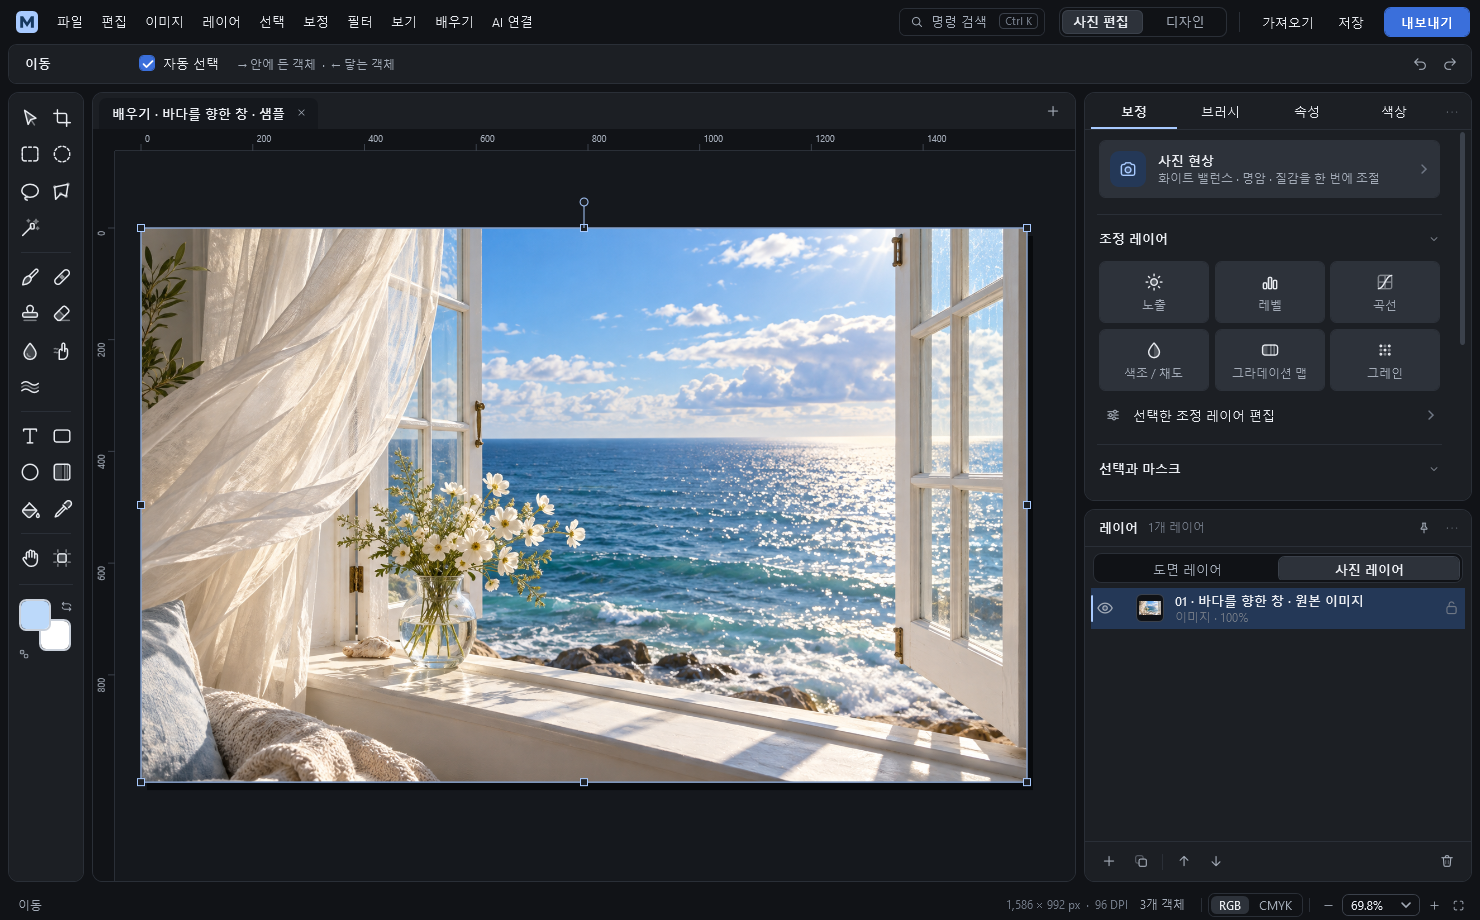
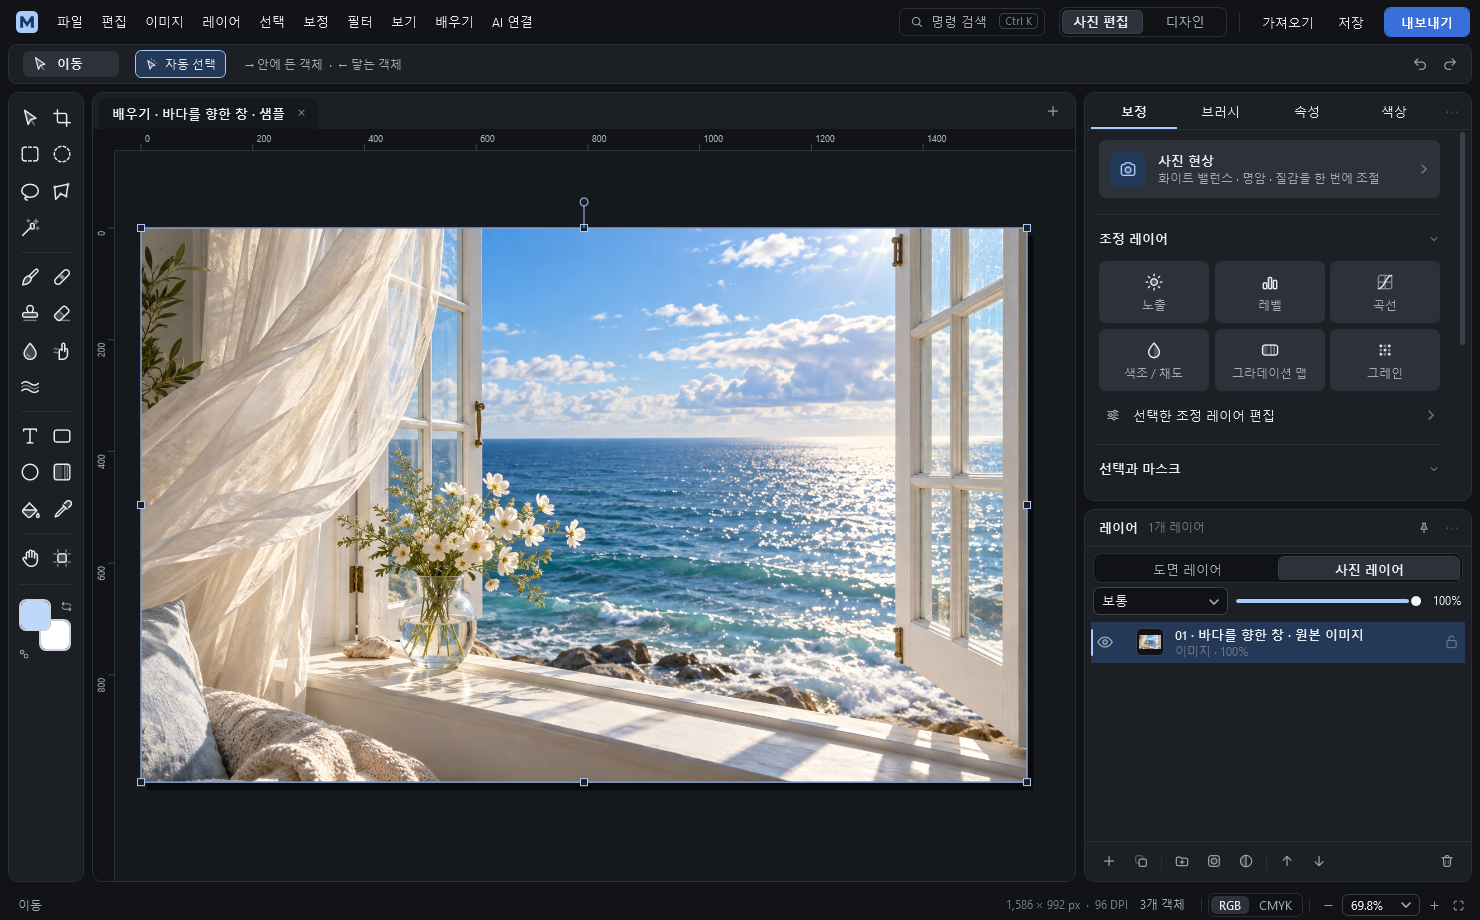
Release 0.2.0 Preview 33: notes, validation and refreshed screenshots

diff --git a/docs/RELEASE_NOTES.md b/docs/RELEASE_NOTES.md
@@ -1,4 +1,16 @@
-# Morupixel 0.2.0 Preview 32 — English, Japanese and Chinese
+# Morupixel 0.2.0 Preview 33 — clearer panels and dialogs
+
+- **Export.** Choose PNG, JPEG or TIFF with one click; only the options for that format appear (JPEG quality, or keep a transparent background for PNG/TIFF). Scale 1x, 2x or a custom percentage, see the output size and estimated file size, type the file name before saving, and pick an artboard from a list next to a larger preview.
+- **Color panel.** Large foreground/background colors, the saturation/value picker, HEX entry and the eyedropper come first, followed by a row of recently used colors and the swatches. The tone grid starts folded.
+- **New document.** Sizes are grouped by purpose — Recent, Screen, SNS, Print and Photo. SNS sizes are named by ratio (1:1, 4:5, 9:16 …). A ratio preview follows the typed size. Recently created sizes are remembered, and the current size can be saved as your own preset (right-click to delete).
+- **Brush panel.** The current brush and each preset are shown as real stroke samples that follow shape, size, hardness, angle and spacing. Shape tiles use the new icon set.
+- **Layer panel.** Blend mode and opacity for the selected layer sit above the list (one undo step per change). An empty category explains what to do, and the footer adds group, mask and adjustment-layer buttons.
+- **Tool options bar.** The current tool shows its icon and name; options such as auto select, contiguous and sample visible layers are icon toggles with explanations in the tooltip.
+- **AI connection.** Edit commands accept `includeLayers: false` to return only the target document without its layer list (the default is unchanged). Undo/redo report `changed: false` when there is nothing to undo, reopening an open project reports `alreadyOpen: true`, and the MCP server version matches the app version. The connection settings add a connection test and example requests.
+- **Small fixes.** The zoom entry hint names the real limit for the current mode (1600% photo, 6400% design). Labels that were assembled from fragments, such as paragraph alignment and selection feather/expand/contract titles, are now whole sentences in every language.
+- **Validation.** 541 source checks passed. [Validation](VALIDATION.md) lists the details.
+
+## Preview 32 — English, Japanese and Chinese
 
 - **Four display languages.** View → 언어 · Language switches between 한국어, English, 日本語 and 简体中文 after a restart. Menus, the ribbon, panels, dialogs, notices, tooltips and the command palette follow the language, and the UI font matches the script. The first launch follows the Windows display language.
 - **Your content stays yours.** Layer, document and file names are never translated. New documents and the learning sample use the selected language.

diff --git a/docs/VALIDATION.md b/docs/VALIDATION.md
@@ -1,3 +1,11 @@
+# Preview 33 panels and dialogs validation
+
+- Source self-tests: **541/541 passed** on Windows x64. Sixteen added checks cover export settings (scale, flattening, file names, format-specific options, artboard list), the color panel order, folded tone grid, HEX parsing and recent colors, new-document purpose groups, ratios and the per-user preset store, real-engine brush stroke previews and their refresh, layer quick blend/opacity with undo and lock state, empty-layer hints and footer buttons, tool-option toggles, the mode-specific zoom hint, compact AI edit responses, `changed` on undo/redo, `alreadyOpen` on reopening, the local-pipe connection test and the MCP server version.
+- `tools/i18n/extract.py` reports 0 missing keys (1,598 entries per language).
+- `--render-studio-previews` in Korean and English produced 44 captures each; export, color, brush, new document, AI connection, editor and options bar were reviewed. Tracked screenshots were refreshed.
+- Release build reported zero warnings and zero errors; the privacy check passed on the staged index.
+- Not covered: the export preview image and file-size estimate are filled asynchronously and appear blank in offscreen captures; drag of the layer opacity slider and the connection test button in a shown window; Japanese and Chinese captures were not reviewed this time.
+
 # Preview 32 display language validation
 
 - Source self-tests: **525/525 passed** on Windows x64, including two AI-automation error regressions. Two added localization checks cover exact, template, fragment and multi-line translation, bindings and formatted runs, `Loc.Keep` for user data, Korean pass-through, and the embedded English, Japanese and Chinese tables: 1,512 entries each, the same placeholders and line breaks, no third-party product names.
